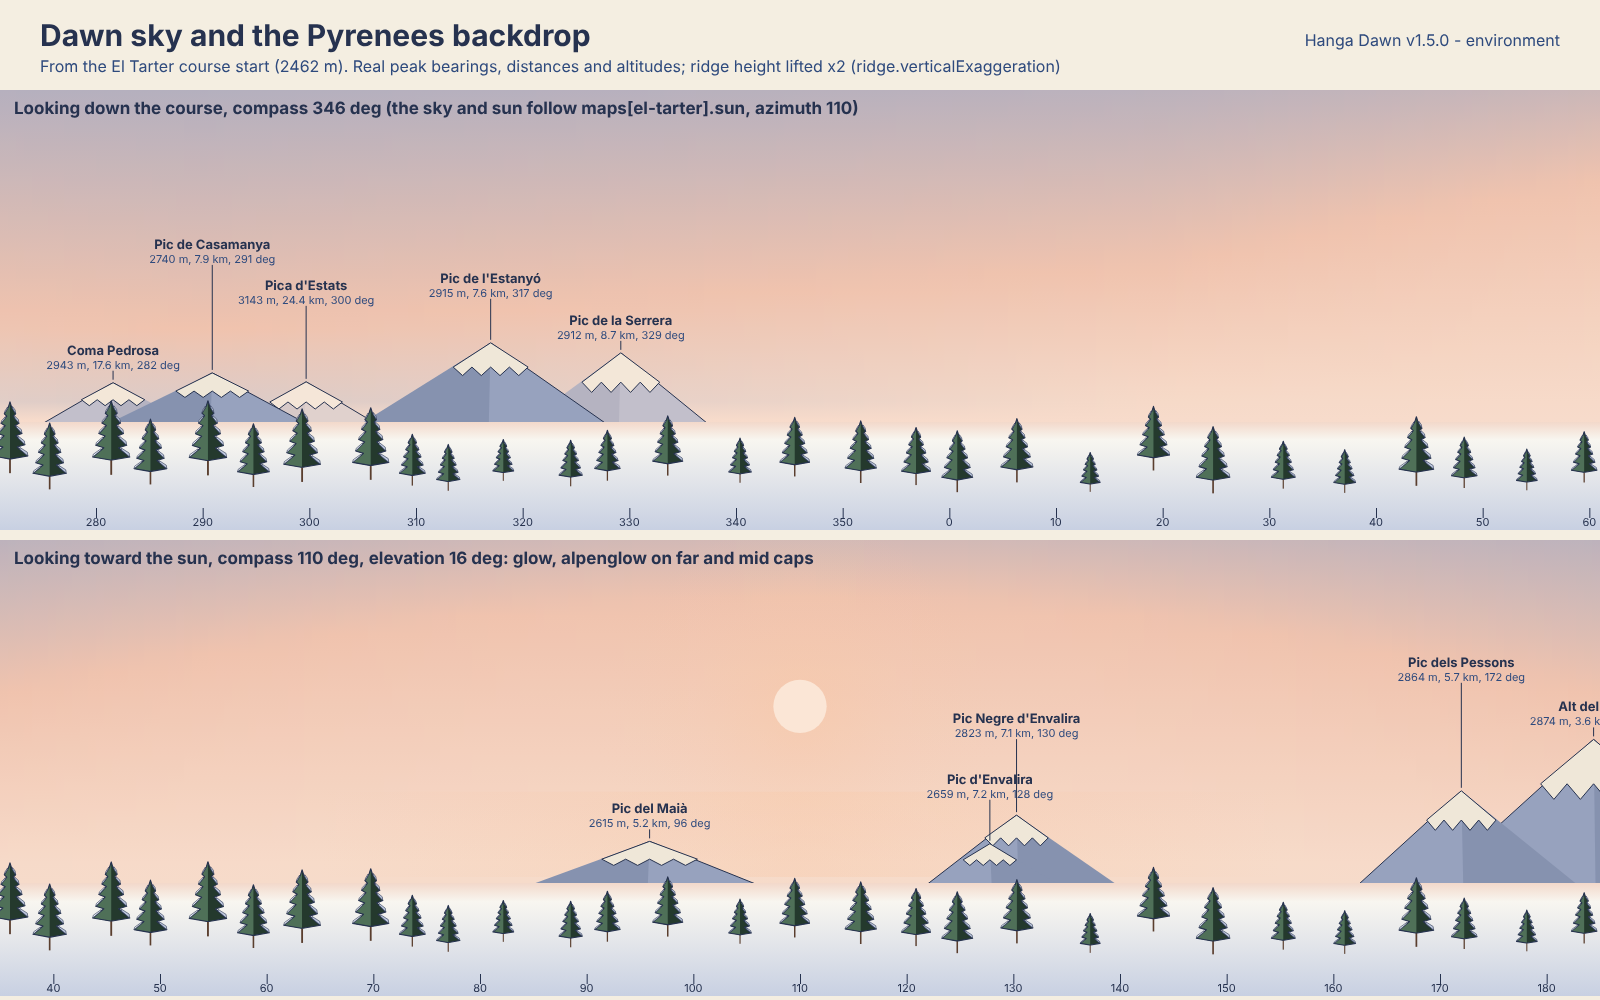
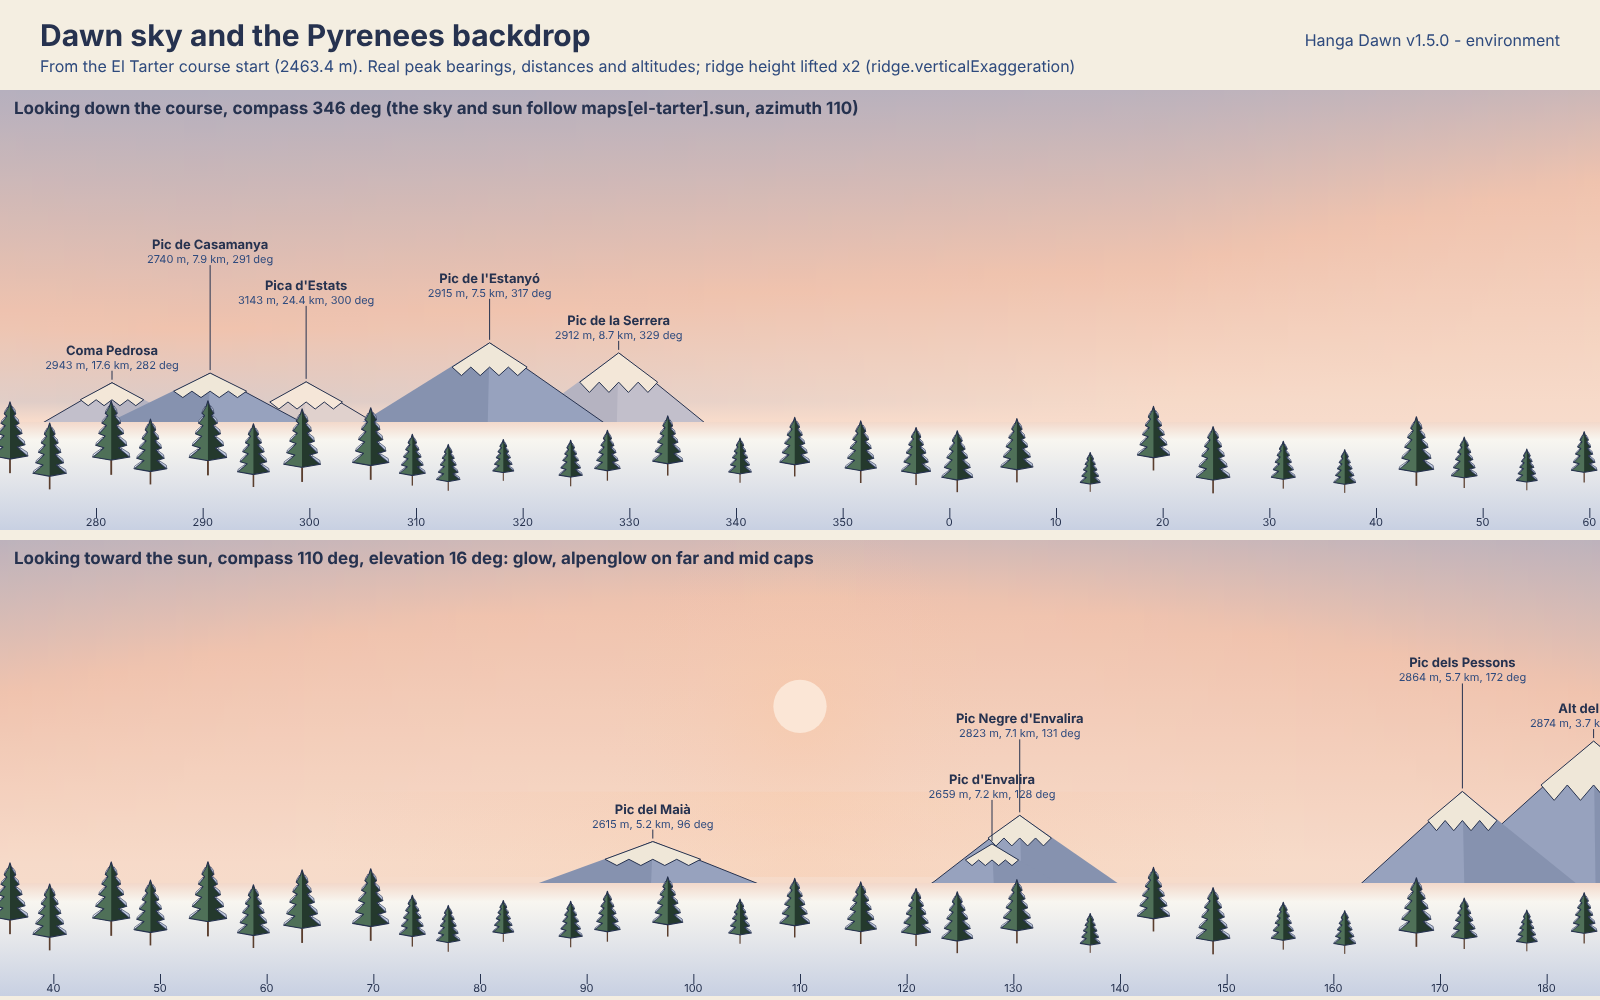
V1: re-derive El Tarter values after the start moved to s 30
Adds docs/art/v1.5/derive.mjs to recompute the data-derived keys and
peak geometry from the baked files. hanga-v15 measures from startS.

Claude-Session: https://claude.ai/code/session_01BbjfAu3U7bX41eoRV1YJnj

diff --git a/art/gresca-hanga-spec.js b/art/gresca-hanga-spec.js
@@ -137,25 +137,25 @@ var HANGA = {
     },
     "note": "Absolute altitudes for El Tarter (treelineM 2300 + environment.treeline.defaults offsets). The run starts above the treeline at 2462 m, so it rides from alpine rock through krummholz and thinning trees into forest at the bottom. courseBandStartS is the distance along the course (m of s) where it first passes each band limit, measured on the baked terrain; the first 235 m are alpine."
    },
-   "meanSlopeDegData": 14.89,
+   "meanSlopeDegData": 15.06,
    "heightRangeM": {
     "min": 1570.3,
     "max": 2749.1
    },
    "courseAltitudeM": {
-    "start": 2462,
+    "start": 2463.4,
     "finish": 1700.5
    },
    "startWorld": {
-    "x": 30.8,
-    "y": -2085.5
+    "x": 35.8,
+    "y": -2056.5
    },
    "fallLineCompassDeg": 346,
    "sunData": {
     "azimuthDeg": 76,
     "elevationDeg": 16
    },
-   "dataNote": "Data-derived values from maps/el-tarter.course.json and maps/el-tarter.terrain.json; the art-directed keys above are unchanged. meanSlopeDegData is the course file's meanSlopeDeg, atan(drop / length) = atan((2462.0 - 1700.5) / 2864.7). heightRangeM is the terrain file's heights minM and maxM. courseAltitudeM is the ground height at s = 0 and s = finishS (finishS 2864.7). startWorld is the course point at s = 0 (world x east, y north, m from the terrain origin 42.5775 N, 1.655 E). fallLineCompassDeg is the compass bearing from the start to the finish. sunData is the sun the baker put in the course file, which is not the art-directed sun above: the baked azimuth 76 is 90 degrees off the fall line, as terrain.sun.rule asks; the art-directed 110 is 124 degrees off it. Which wins is open (see HANGA-v1.5.md)."
+   "dataNote": "Data-derived values from maps/el-tarter.course.json and maps/el-tarter.terrain.json (recomputed by docs/art/v1.5/derive.mjs); the art-directed keys above are unchanged. meanSlopeDegData is the course file's meanSlopeDeg, atan(drop / length) = atan((2463.4 - 1700.5) / 2834.7) between startS 30 and finishS 2864.7. heightRangeM is the terrain file's heights minM and maxM. courseAltitudeM is the ground height at s = startS and s = finishS. startWorld is the course point at s = startS (world x east, y north, m from the terrain origin 42.5775 N, 1.655 E). fallLineCompassDeg is the compass bearing from the start to the finish. sunData is the sun the baker put in the course file, which is not the art-directed sun above: the baked azimuth 76 is 90 degrees off the fall line, as terrain.sun.rule asks; the art-directed 110 is 124 degrees off it. Which wins is open (see HANGA-v1.5.md)."
   }
  },
  "palette": {
@@ -6062,11 +6062,11 @@ var HANGA = {
       "lat": 42.5841,
       "lon": 1.5655,
       "altM": 2740,
-      "bearingEnuDeg": 159.1,
-      "bearingCompassDeg": 290.9,
-      "distM": 7899,
-      "elevDeg": 2.02,
-      "horizonAtStartDeg": -4.4,
+      "bearingEnuDeg": 159.3,
+      "bearingCompassDeg": 290.7,
+      "distM": 7894,
+      "elevDeg": 2.01,
+      "horizonAtStartDeg": -4.7,
       "halfWidthM": 1300,
       "source": "peakbook.org element 54931 (UTM converted)"
      },
@@ -6077,9 +6077,9 @@ var HANGA = {
       "lat": 42.6085,
       "lon": 1.5926,
       "altM": 2915,
-      "bearingEnuDeg": 133,
-      "bearingCompassDeg": 317,
-      "distM": 7558,
+      "bearingEnuDeg": 133.1,
+      "bearingCompassDeg": 316.9,
+      "distM": 7540,
       "elevDeg": 3.43,
       "horizonAtStartDeg": -3,
       "halfWidthM": 1500,
@@ -6092,11 +6092,11 @@ var HANGA = {
       "lat": 42.626,
       "lon": 1.601,
       "altM": 2912,
-      "bearingEnuDeg": 120.8,
-      "bearingCompassDeg": 329.2,
-      "distM": 8704,
+      "bearingEnuDeg": 121,
+      "bearingCompassDeg": 329,
+      "distM": 8682,
       "elevDeg": 2.96,
-      "horizonAtStartDeg": 2.1,
+      "horizonAtStartDeg": 2,
       "halfWidthM": 1300,
       "source": "GeoNames highest mountains of Andorra"
      },
@@ -6107,11 +6107,11 @@ var HANGA = {
       "lat": 42.59056,
       "lon": 1.44478,
       "altM": 2943,
-      "bearingEnuDeg": 168.4,
-      "bearingCompassDeg": 281.6,
-      "distM": 17648,
+      "bearingEnuDeg": 168.5,
+      "bearingCompassDeg": 281.5,
+      "distM": 17647,
       "elevDeg": 1.56,
-      "horizonAtStartDeg": -1.8,
+      "horizonAtStartDeg": -2,
       "halfWidthM": 2200,
       "source": "Wikipedia: Coma Pedrosa"
      },
@@ -6124,9 +6124,9 @@ var HANGA = {
       "altM": 3143,
       "bearingEnuDeg": 150.3,
       "bearingCompassDeg": 299.7,
-      "distM": 24370,
+      "distM": 24360,
       "elevDeg": 1.6,
-      "horizonAtStartDeg": -8.7,
+      "horizonAtStartDeg": -9.3,
       "halfWidthM": 3000,
       "source": "Wikipedia: Pica d'Estats"
      },
@@ -6139,9 +6139,9 @@ var HANGA = {
       "altM": 2874,
       "bearingEnuDeg": 265.6,
       "bearingCompassDeg": 184.4,
-      "distM": 3646,
-      "elevDeg": 6.45,
-      "horizonAtStartDeg": 0.7,
+      "distM": 3675,
+      "elevDeg": 6.37,
+      "horizonAtStartDeg": 0.6,
       "halfWidthM": 1000,
       "source": "GeoNames highest mountains of Andorra"
      },
@@ -6152,10 +6152,10 @@ var HANGA = {
       "lat": 42.508,
       "lon": 1.665,
       "altM": 2864,
-      "bearingEnuDeg": 278,
-      "bearingCompassDeg": 172,
-      "distM": 5690,
-      "elevDeg": 4.04,
+      "bearingEnuDeg": 277.9,
+      "bearingCompassDeg": 172.1,
+      "distM": 5718,
+      "elevDeg": 4.01,
       "horizonAtStartDeg": 0.9,
       "halfWidthM": 1000,
       "source": "GeoNames highest mountains of Andorra"
@@ -6167,10 +6167,10 @@ var HANGA = {
       "lat": 42.51722,
       "lon": 1.72139,
       "altM": 2823,
-      "bearingEnuDeg": 319.7,
-      "bearingCompassDeg": 130.3,
-      "distM": 7118,
-      "elevDeg": 2.9,
+      "bearingEnuDeg": 319.4,
+      "bearingCompassDeg": 130.6,
+      "distM": 7133,
+      "elevDeg": 2.89,
       "horizonAtStartDeg": -2.4,
       "halfWidthM": 1100,
       "source": "Wikipedia: Pic Negre d'Envalira"
@@ -6182,11 +6182,11 @@ var HANGA = {
       "lat": 42.51879,
       "lon": 1.72485,
       "altM": 2659,
-      "bearingEnuDeg": 322.2,
-      "bearingCompassDeg": 127.8,
-      "distM": 7229,
-      "elevDeg": 1.56,
-      "horizonAtStartDeg": -2.8,
+      "bearingEnuDeg": 322,
+      "bearingCompassDeg": 128,
+      "distM": 7243,
+      "elevDeg": 1.55,
+      "horizonAtStartDeg": -3.1,
       "halfWidthM": 800,
       "source": "aroundus.com 4041992"
      },
@@ -6197,11 +6197,11 @@ var HANGA = {
       "lat": 42.55384,
       "lon": 1.71889,
       "altM": 2615,
-      "bearingEnuDeg": 354.1,
-      "bearingCompassDeg": 95.9,
-      "distM": 5244,
-      "elevDeg": 1.67,
-      "horizonAtStartDeg": -3.5,
+      "bearingEnuDeg": 353.8,
+      "bearingCompassDeg": 96.2,
+      "distM": 5242,
+      "elevDeg": 1.66,
+      "horizonAtStartDeg": -3.4,
       "halfWidthM": 1000,
       "source": "elevation visitandorra.com; position komoot highlight 3422136 (map centre, approx)"
      }

diff --git a/test/hanga-v15.test.js b/test/hanga-v15.test.js
@@ -201,7 +201,7 @@ test('environment: trees, treeline, bushes and rocks', async (t) => {
   const starts = tl.courseBandStartS;
   const order = ['krummholz', 'open', 'thinning', 'forest'].map((id) => starts[id]);
   assert.deepEqual(order, [...order].sort((a, b) => a - b), 'down the run: krummholz, open, thinning, forest');
-  assert.ok(order[0] > 0 && order[3] < COURSE.finishS);
+  assert.ok(order[0] > COURSE.startS && order[3] < COURSE.finishS);
  });
  await t.test('bushes and rocks: sizes, slopes and the snow rule', () => {
   const depth = ENV.bushes.snowDepthByAltM;
@@ -272,7 +272,7 @@ test('Pyrenees peaks: stored bearings and distances match a recompute from lat/l
  const projection = createProjection(TERRAIN.origin.lat, TERRAIN.origin.lon);
  const layer = terrainLayer(TERRAIN);
  const course = runCourse(TERRAIN, selectParts(TERRAIN, COURSE.run).parts, layer);
- const start = course.point(0, 0, {});
+ const start = course.point(COURSE.startS, 0, {});
  const peaks = ENV.backdrops.pyrenees.peaks;
  await t.test('the start is the course start', () => {
   assert.ok(Math.abs(TARTER.startWorld.x - start.x) < 0.1 && Math.abs(TARTER.startWorld.y - start.y) < 0.1);
@@ -328,18 +328,18 @@ test('El Tarter: the data-derived keys match the baked files', async (t) => {
  };
  await t.test('slope, height range, start and finish altitude', () => {
   assert.equal(TARTER.meanSlopeDegData, COURSE.meanSlopeDeg);
-  const drop = heightAt(0) - heightAt(COURSE.finishS);
-  const slope = Math.atan(drop / COURSE.finishS) * RAD_TO_DEG;
+  const drop = heightAt(COURSE.startS) - heightAt(COURSE.finishS);
+  const slope = Math.atan(drop / (COURSE.finishS - COURSE.startS)) * RAD_TO_DEG;
   assert.ok(Math.abs(slope - TARTER.meanSlopeDegData) < 0.01, 'atan(drop / length)');
   assert.deepEqual(TARTER.heightRangeM, { min: TERRAIN.heights.minM, max: TERRAIN.heights.maxM });
-  assert.ok(Math.abs(heightAt(0) - TARTER.courseAltitudeM.start) < 0.1);
+  assert.ok(Math.abs(heightAt(COURSE.startS) - TARTER.courseAltitudeM.start) < 0.1);
   assert.ok(Math.abs(heightAt(COURSE.finishS) - TARTER.courseAltitudeM.finish) < 0.1);
   assert.equal(TARTER.meanSlopeDeg, 16.5, 'the art-directed value is kept');
   assert.deepEqual(TARTER.sunData, { azimuthDeg: COURSE.sun.azimuthDeg, elevationDeg: COURSE.sun.elevationDeg });
  });
  await t.test('fall line bearing and the altitude where the course passes each band limit', () => {
   const end = course.point(COURSE.finishS, 0, {});
-  const start = course.point(0, 0, {});
+  const start = course.point(COURSE.startS, 0, {});
   const bearing = (Math.atan2(end.x - start.x, end.y - start.y) * RAD_TO_DEG + 360) % 360;
   assert.ok(Math.abs(bearing - TARTER.fallLineCompassDeg) < 0.5, `fall line ${bearing}`);
   const tl = TARTER.treeline;

diff --git a/docs/art/v1.5/board.html b/docs/art/v1.5/board.html
@@ -419,7 +419,7 @@ function skyPanel(y0, h, centre, hfov, caption, step) {
   ctx.restore();
 }
 function boardSky() {
-  title('Dawn sky and the Pyrenees backdrop', 'From the El Tarter course start (2462 m). Real peak bearings, distances and altitudes; ridge height lifted x'
+  title('Dawn sky and the Pyrenees backdrop', 'From the El Tarter course start (' + H.maps['el-tarter'].courseAltitudeM.start + ' m). Real peak bearings, distances and altitudes; ridge height lifted x'
     + E.backdrops.pyrenees.ridge.verticalExaggeration + ' (ridge.verticalExaggeration)');
   const A = H.maps['el-tarter'];
   skyPanel(90, 440, A.fallLineCompassDeg, 150, 'Looking down the course, compass ' + A.fallLineCompassDeg + ' deg (the sky and sun follow maps[el-tarter].sun, azimuth ' + A.sun.azimuthDeg + ')', 3);

diff --git a/docs/art/HANGA-v1.5.md b/docs/art/HANGA-v1.5.md
@@ -46,31 +46,31 @@ impostors; `lit` and `shade` are the two billboard halves (flip when the sun is 
 
 ## Pyrenees peaks (from the El Tarter course start)
 
-World position of the start: x 30.8, y -2085.5 m from the terrain origin (42.5775 N, 1.655 E), ground 2462 m.
+World position of the start: x 35.8, y -2056.5 m from the terrain origin (42.5775 N, 1.655 E), ground 2463.4 m (the course's high point, startS 30).
 ENU bearing is counter-clockwise from east (ADR 0005); compass is clockwise from north. `elevDeg` is the angle above
 the horizontal from the start, flat earth. All ten clear the terrain-grid horizon from the start
 (`horizonAtStartDeg` in the data). Bearings, distances and angles are recomputed from lat/lon in the test.
 
 | Peak | Layer | Alt m | Lat, lon | Compass | ENU | Dist m | Elev deg | Source |
 |---|---|---|---|---|---|---|---|---|
-| Pic de Casamanya | near | 2740 | 42.5841, 1.5655 | 290.9 | 159.1 | 7899 | 2.02 | peakbook.org 54931 (UTM converted) |
-| Pic de l'Estanyó | near | 2915 | 42.6085, 1.5926 | 317.0 | 133.0 | 7558 | 3.43 | peakbook.org 78414 (UTM converted) |
-| Pic de la Serrera | mid | 2912 | 42.626, 1.601 | 329.2 | 120.8 | 8704 | 2.96 | GeoNames, highest mountains of Andorra |
-| Coma Pedrosa | mid | 2943 | 42.59056, 1.44478 | 281.6 | 168.4 | 17648 | 1.56 | Wikipedia |
-| Pica d'Estats | far | 3143 | 42.66722, 1.39722 | 299.7 | 150.3 | 24370 | 1.60 | Wikipedia |
-| Alt del Griu | near | 2874 | 42.526, 1.652 | 184.4 | 265.6 | 3646 | 6.45 | GeoNames |
-| Pic dels Pessons | near | 2864 | 42.508, 1.665 | 172.0 | 278.0 | 5690 | 4.04 | GeoNames |
-| Pic Negre d'Envalira | near | 2823 | 42.51722, 1.72139 | 130.3 | 319.7 | 7118 | 2.90 | Wikipedia |
-| Pic d'Envalira | near | 2659 | 42.51879, 1.72485 | 127.8 | 322.2 | 7229 | 1.56 | aroundus.com 4041992 |
-| Pic del Maià | near | 2615 | 42.55384, 1.71889 | 95.9 | 354.1 | 5244 | 1.67 | altitude visitandorra.com; position komoot 3422136 |
+| Pic de Casamanya | near | 2740 |42.5841, 1.5655| 290.7 | 159.3 | 7894 | 2.01 | peakbook.org 54931 (UTM converted) |
+| Pic de l'Estanyó | near | 2915 |42.6085, 1.5926| 316.9 | 133.1 | 7540 | 3.43 | peakbook.org 78414 (UTM converted) |
+| Pic de la Serrera | mid | 2912 |42.626, 1.601| 329.0 | 121.0 | 8682 | 2.96 | GeoNames, highest mountains of Andorra |
+| Coma Pedrosa | mid | 2943 |42.59056, 1.44478| 281.5 | 168.5 | 17647 | 1.56 | Wikipedia |
+| Pica d'Estats | far | 3143 |42.66722, 1.39722| 299.7 | 150.3 | 24360 | 1.60 | Wikipedia |
+| Alt del Griu | near | 2874 |42.526, 1.652| 184.4 | 265.6 | 3675 | 6.37 | GeoNames |
+| Pic dels Pessons | near | 2864 |42.508, 1.665| 172.1 | 277.9 | 5718 | 4.01 | GeoNames |
+| Pic Negre d'Envalira | near | 2823 |42.51722, 1.72139| 130.6 | 319.4 | 7133 | 2.89 | Wikipedia |
+| Pic d'Envalira | near | 2659 |42.51879, 1.72485| 128.0 | 322.0 | 7243 | 1.55 | aroundus.com 4041992 |
+| Pic del Maià | near | 2615 |42.55384, 1.71889| 96.2 | 353.8 | 5242 | 1.66 | altitude visitandorra.com; position komoot 3422136 |
 
 GeoNames gives 3 decimals (about 100 m, under 1 degree of bearing here). Maià's position is a map-centre value and its
 altitude differs by 5 m between sources. `halfWidthM` (massif width) is art-directed, not measured.
 
 ## Data from the baked files
 
-`meanSlopeDegData` 14.89 is the course file's value, atan(drop / length) = atan((2462.0 - 1700.5) / 2864.7). The
-terrain height range is 1570.3-2749.1 m. The course starts at 2462 m, above the treeline, and first passes the
+`meanSlopeDegData` 15.06 is the course file's value, atan(drop / length) = atan((2463.4 - 1700.5) / 2834.7) from startS 30. The
+terrain height range is 1570.3-2749.1 m. The course starts at 2463 m, above the treeline, and first passes the
 krummholz limit at s 235 m, the last-tree line at 599, the thinning limit at 929 and the forest limit at 1989.
 The files carry no land cover, so the treeline itself stays art-directed.
 
@@ -94,3 +94,5 @@ The files carry no land cover, so the treeline itself stays art-directed.
 - **Ridge height.** Real peaks are 1.5-6.5 degrees up, so the ridge is lifted 2x; S4 may tune it.
 - **Treeline value.** 2300 m is a regional rule of thumb; real land cover (R6) would replace it.
 - El Tarter sun: spec 110 (real winter dawn, ESE) vs baked 76 (fall line + 90); the 60-120 degree side-light rule.
+
+After a rebake, `node docs/art/v1.5/derive.mjs` recomputes every value in this section and the peak geometry in place.

diff --git a/art/AGENTS.md b/art/AGENTS.md
@@ -17,3 +17,4 @@
 | Rider shapes, poses, palette: the spec (a new version only) | `gresca-hanga-spec.js`, `docs/art/HANGA-v<version>.md` | `hanga-v14`, `hanga-v15` |
 | The rider contact sheet (every pose for checking by eye) | `tools/rider-sheet.html`, `tools/rider-sheet.js` | none |
 | The v1.5 environment boards (trees, rocks, sky, palette PNGs from the spec's own data; a design tool) | `docs/art/v1.5/board.html` | none |
+| Recompute El Tarter's data-derived spec values and peak geometry after a rebake (a design tool) | `docs/art/v1.5/derive.mjs` | `hanga-v15` |
